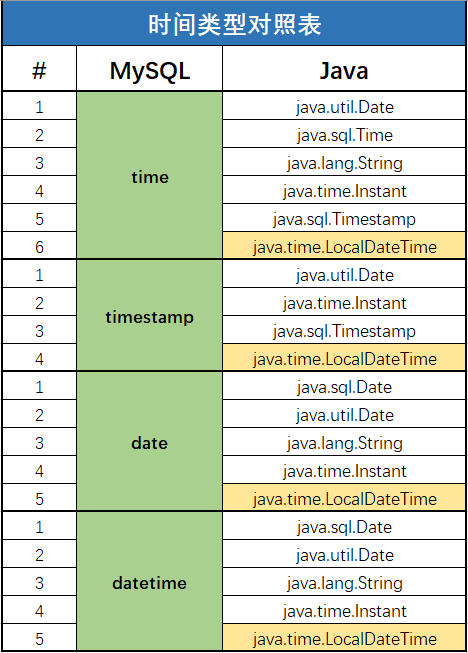
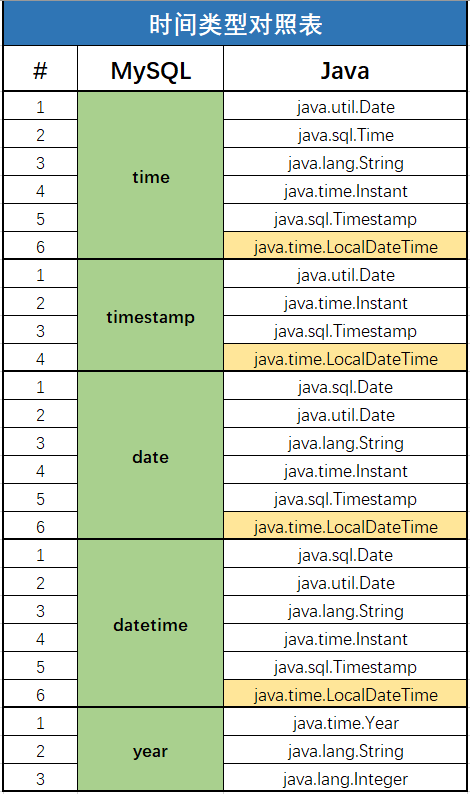
完善20200323

diff --git a/_posts/2020-03-23-java-mysql-time.md b/_posts/2020-03-23-java-mysql-time.md
@@ -12,7 +12,7 @@ description: Java与MySQL时间类型对照表
 <!-- more -->
 　　　　　　　　　　　　　　　　![]({{ "/assets/img/20200323/time.png"}})  
 ## 先上结论
-***不论数据库的时间类型是什么，在Java中一律使用 java.time.LocalDateTime即可。***  
+***不论数据库的时间类型是什么(除了year)，在Java中一律使用 java.time.LocalDateTime即可。***  
 ## 注意事项  
 **1.实操时MySQL版本为8.0.20。**  
 **2.上表中右列的Java类型数据均可对应入库为左列的MySQL类型数据。**    
@@ -20,5 +20,15 @@ description: Java与MySQL时间类型对照表
 ## 细节问题  
 **1.MySQL中time类型只会存储时间，`不会`存储日期。因此读取到的Java类日期会显示为1970-01-01。**  
 **2.MySQL中timestamp类型会存储日期、时间，可以和Java类无缝转换。**  
-**3.MySQL中date类型只会存储日期，`不会`存储时间。因此读取到的Java类时间会显示为00:00**（比较奇怪的是Instant类会显示为16:00）。  
+**3.MySQL中date类型只会存储日期，`不会`存储时间。因此读取到的Java类时间会显示为00:00**
+（比较奇怪的是Instant类会显示为16:00）。  
 **4.MySQL中datetime类型会存储日期、时间，可以和Java类无缝转换。**  
+**5.MySQL中year类型只会存储年份，`不会`存储其他日期相关数据。读取为Integer类型时显示4位10进制数的年份，但是读取为String类型时，会显示格式化后的年月日。**
+```text
+例：mysql —— 2020         Integer —— 2020         String —— "2020-01-01"
+```  
+**6.当插入MySQL中year类型数据为两位数时。**  
+```text
+00~69  会转换为2000~2069之间       例：Integer ——  58       mysql —— 2058
+70~99  会转换为1970~1999之间       例：String  —— "85"      mysql —— 1985
+```
